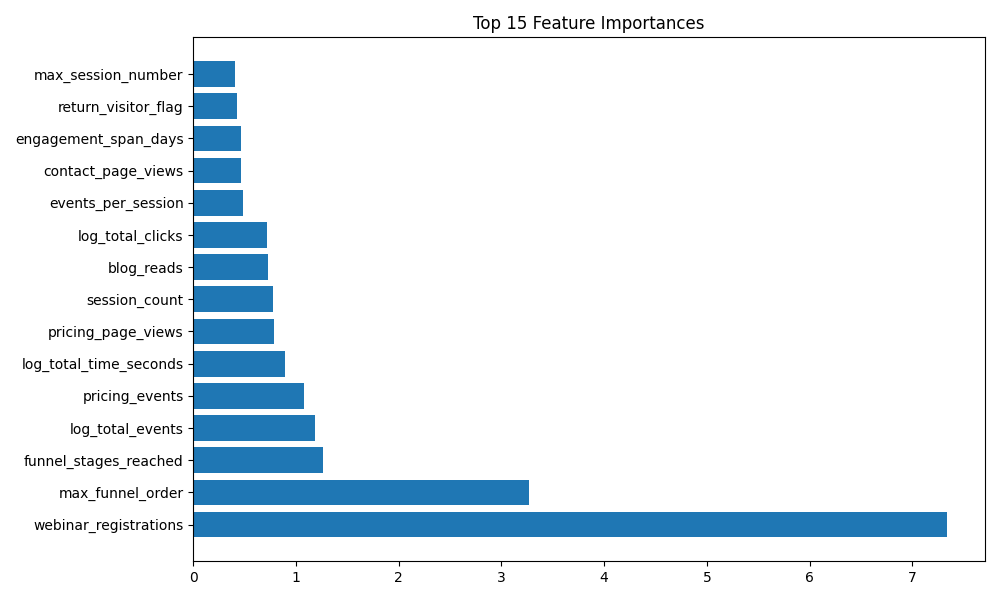
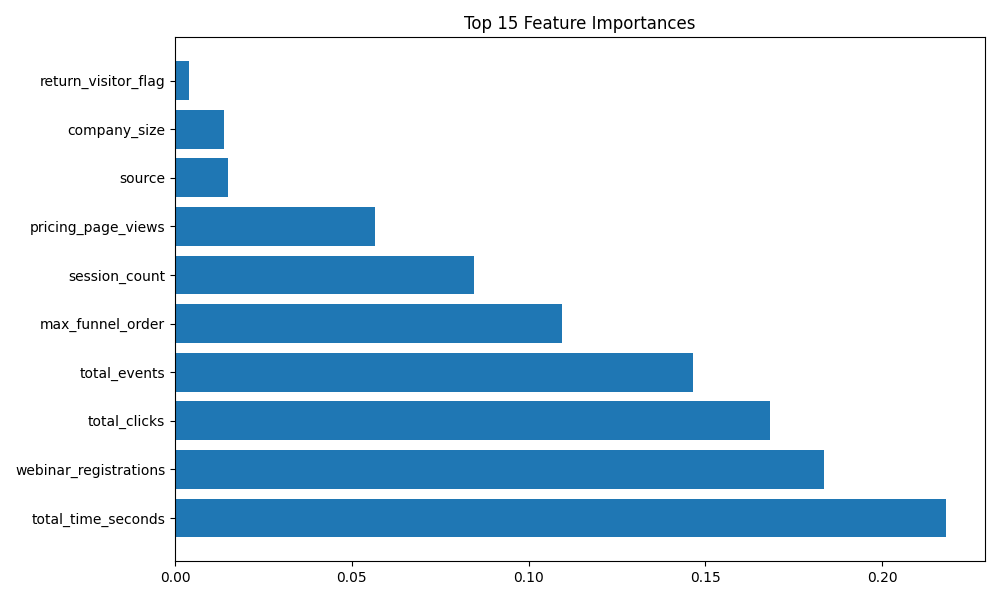
refactor: simplify model pipeline and prediction API

diff --git a/app.py b/app.py
@@ -1,0 +1,135 @@
+from fastapi import FastAPI
+from pydantic import BaseModel
+import math
+import numpy as np
+from fastapi import HTTPException
+
+import joblib
+
+app = FastAPI(
+    title="Lead Conversion Prediction API",
+    version="1.0.0",
+    description="Predict lead conversion probability using behavioral features."
+)
+
+artifact = joblib.load("models/model.pkl")
+
+model = artifact["model"]
+feature_names = artifact["feature_names"]
+label_encoders = artifact["label_encoders"]
+
+
[email redacted]("/")
+def root():
+    return {
+        "message": "Lead Conversion Prediction API is running",
+        "model_loaded": model is not None,
+        "num_features": len(feature_names)
+    }
+
+
[email redacted]("/health")
+def health():
+    return {
+        "status": "healthy"
+    }
+
+
+
+from pydantic import BaseModel
+
+class PredictionRequest(BaseModel):
+    source: str
+    company_size: str
+
+    session_count: int
+    total_events: int
+    total_time_seconds: float
+
+    pricing_page_views: int
+    webinar_registrations: int
+
+    max_funnel_order: int
+    return_visitor_flag: bool
+
+    total_clicks: int
+
+import math
+import numpy as np
+
+import numpy as np
+
+def prepare_features(data: PredictionRequest):
+    values = data.model_dump()
+
+    # Encode categorical columns
+    for col in ["source", "company_size"]:
+        encoder = label_encoders[col]
+
+        try:
+            values[col] = int(
+                encoder.transform([str(values[col])])[0]
+            )
+        except ValueError:
+            raise ValueError(
+                f"Invalid value for '{col}'. "
+                f"Allowed values: {list(encoder.classes_)}"
+            )
+
+    # Convert bool → int
+    values["return_visitor_flag"] = int(
+        values["return_visitor_flag"]
+    )
+
+    # Build feature vector in training order
+    feature_vector = [
+        values[col]
+        for col in feature_names
+    ]
+
+    return np.array([feature_vector])
+
+class PredictionResponse(BaseModel):
+    prediction: str
+    conversion_probability: float
+    confidence: str
+
[email redacted]("/predict", response_model=PredictionResponse)
+def predict(request: PredictionRequest):
+    try:
+        # Prepare features
+        X = prepare_features(request)
+
+        # Get probability of conversion
+        probability = float(model.predict_proba(X)[0][1])
+
+        prediction = "ACCEPT" if probability >= 0.5 else "REJECT"
+
+        confidence_score = max(probability, 1 - probability)
+
+        if confidence_score >= 0.85:
+            confidence = "high"
+        elif confidence_score >= 0.70:
+            confidence = "medium"
+        else:
+            confidence = "low"
+
+        if probability >= 0.80:
+            risk_level = "low"
+        elif probability >= 0.50:
+            risk_level = "medium"
+        else:
+            risk_level = "high"
+
+        return {
+            "prediction": prediction,
+            "conversion_probability": round(probability, 4),
+            "confidence": confidence,
+            "risk_level": risk_level,
+        }
+
+    except Exception as exc:
+        raise HTTPException(
+            status_code=400,
+            detail=str(exc)
+        )

diff --git a/train.py b/train.py
@@ -250,6 +250,7 @@ def preprocess(df: pd.DataFrame):
         "funding_stage", "job_role", "account_type",
         "device_type", "employee_growth_band", "region", "first_touch_channel"
     ]
+    
 
     df_model = df.drop(columns=[c for c in drop_cols if c in df.columns], errors="ignore").copy()
 
@@ -279,6 +280,23 @@ def preprocess(df: pd.DataFrame):
             "Remaining missing values detected. Filling with 0."
         )
         df_model = df_model.fillna(0)
+
+    # Keep only the most important features
+    selected_features = [
+        "source",
+        "company_size",
+        "session_count",
+        "total_events",
+        "total_time_seconds",
+        "pricing_page_views",
+        "webinar_registrations",
+        "max_funnel_order",
+        "return_visitor_flag",
+        "total_clicks"
+    ]
+
+    df_model = df_model[selected_features]
+
     y = df["converted"].values
     X = df_model.values
     feature_names = df_model.columns.tolist()
@@ -573,47 +591,60 @@ def main():
         print(r)
 
     if best_name == "Logistic Regression":
-
         feature_importance = pd.DataFrame({
             "feature": feature_names,
             "importance": np.abs(
                 best_model.named_steps["clf"].coef_[0]
             )
-        }).sort_values(
-            "importance",
-            ascending=False
-        )
+        })
 
-        print("\nTop 15 Important Features:")
-        print(feature_importance.head(15))
+    elif best_name == "Random Forest":
+        feature_importance = pd.DataFrame({
+            "feature": feature_names,
+            "importance": best_model.feature_importances_
+        })
 
-        plot_feature_importance(
-            feature_importance
-        )
+    elif best_name == "XGBoost":
+        feature_importance = pd.DataFrame({
+            "feature": feature_names,
+            "importance": best_model.feature_importances_
+        })
 
-        save_metrics(
-            results,
-            cv_scores
-        )
+    elif best_name == "Gradient Boosting":
+        feature_importance = pd.DataFrame({
+            "feature": feature_names,
+            "importance": best_model.feature_importances_
+        })
 
-        plot_confusion_matrix(
-            best_model,
-            X_test,
-            y_test
-        )
+    feature_importance = feature_importance.sort_values(
+        by="importance",
+        ascending=False
+    )
 
-        plot_roc_curve(
-            best_model,
-            X_test,
-            y_test
-        )
-        
-
-        artifact = joblib.load("models/model.pkl")
-        print(artifact.keys())
-
-        print(artifact["feature_names"])
-        print(len(feature_names))
+    print("\nTop 15 Important Features:")
+    print(feature_importance.head(15))
+    plot_feature_importance(
+        feature_importance
+    )
+    save_metrics(
+        results,
+        cv_scores
+    )
+    plot_confusion_matrix(
+        best_model,
+        X_test,
+        y_test
+    )
+    plot_roc_curve(
+        best_model,
+        X_test,
+        y_test
+    )
+    
+    artifact = joblib.load("models/model.pkl")
+    print(artifact.keys())
+    print(artifact["feature_names"])
+    print(len(feature_names))
 
 if __name__ == "__main__":
     main()